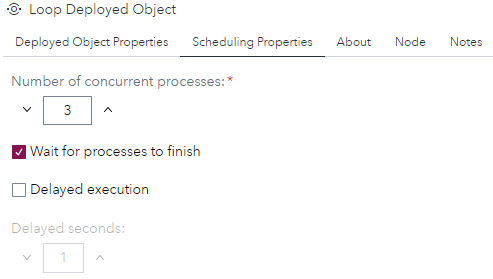
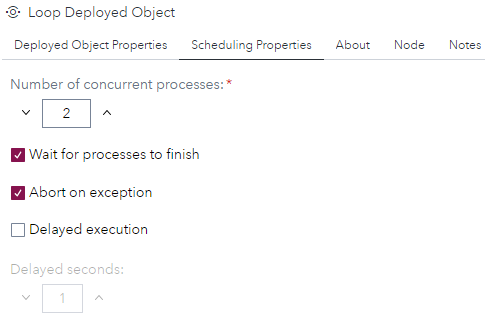
Releasing version 1.8

diff --git a/Loop Deployed Object/README.md b/Loop Deployed Object/README.md
@@ -25,8 +25,9 @@ Here you need to specify the following:
 
 ![properties](img/UI_scheduling_properties.PNG)
 
-- **Number of concurrent processes**: NEW in version 1.4. The number specified here is the maximum number of processes that can run concurrently at one time.
+- **Number of concurrent processes**: NEW in version 1.4. The number specified here is the maximum number of processes that can run concurrently at one time. The default value is 4.
 - **Wait for processes to finish**: This option, which is checked by default, lets the custom step wait for all processes to finish before continuing with the rest of the flow. The state in which this custom step **can** continue with the next step of the current flow is when the last job is set to run.
+- **Abort on exception**: NEW in version 1.8. When checked the custom step will stop further processing of the flow when one or more of the started processes caused an exception. The default value for this setting is **NOT** checked. Further explanation can be found in the *Usage* section. 
 - **Delayed execution**: NEW in version 1.2. When set, every process is started with a 'x' second delay, to avoid a race condition. 
 - **Delayed seconds**: NEW in version 1.3. When you specified to use the delayed execution option, you can specify the amount of seconds here. The default value is 1. This option it's availability depends on the checked status of the **Delayed execution** option.
 
@@ -46,6 +47,13 @@ You can use the macro variable(s), in this example "**AGE**" and "**HEIGTH**", d
 
 ![Usage](img/Usage_inner_flow.PNG)
 
+In case the option **Abort on exception** is checked and one or more processes failed, you will see that as follows:
+
+![Usage](img/Abort_on_exception.PNG)
+
+Where no further processing of the flow is done. In the log file you will see that as:
+
+![Usage](img/Error_message.PNG)
 ## Input port
 
 The input table provides information on the macro variable names and their values. 
@@ -92,6 +100,8 @@ Note that:
 | ERROR: The status table, &_output, does not exist. | The internal status table, which is exposed as the step output table, doesn't exist!. This will cause the step to abort. |
 
 ## Change Log
+
+Version 1.8 (16MAY2024) : Added the **Abort on exception** option.
 
 Version 1.7 (18MAR2024) : Name change from **Loop** to **Loop Deployed Object**
 
